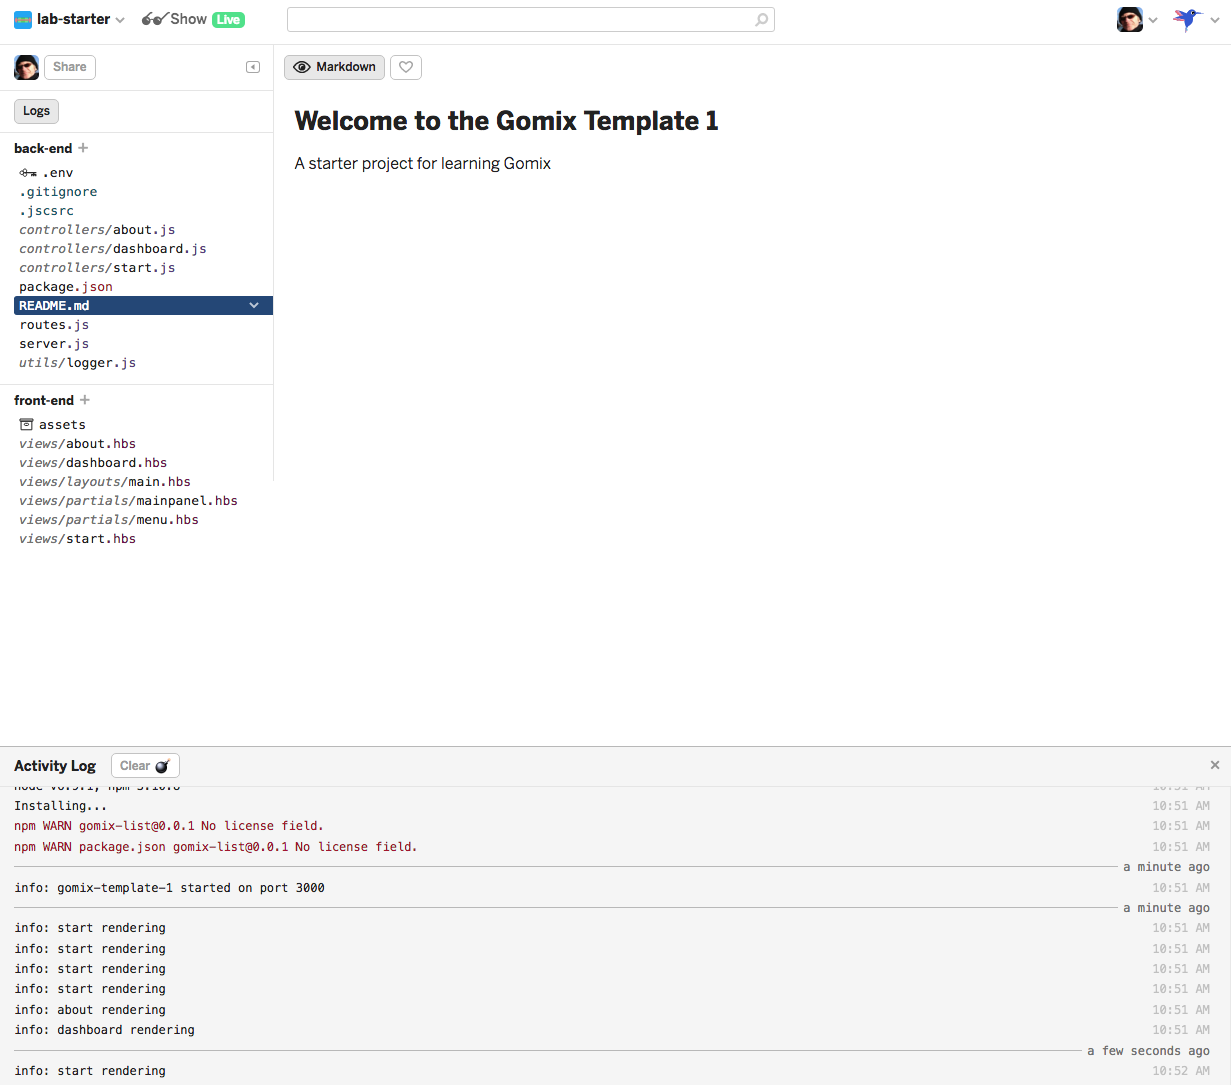
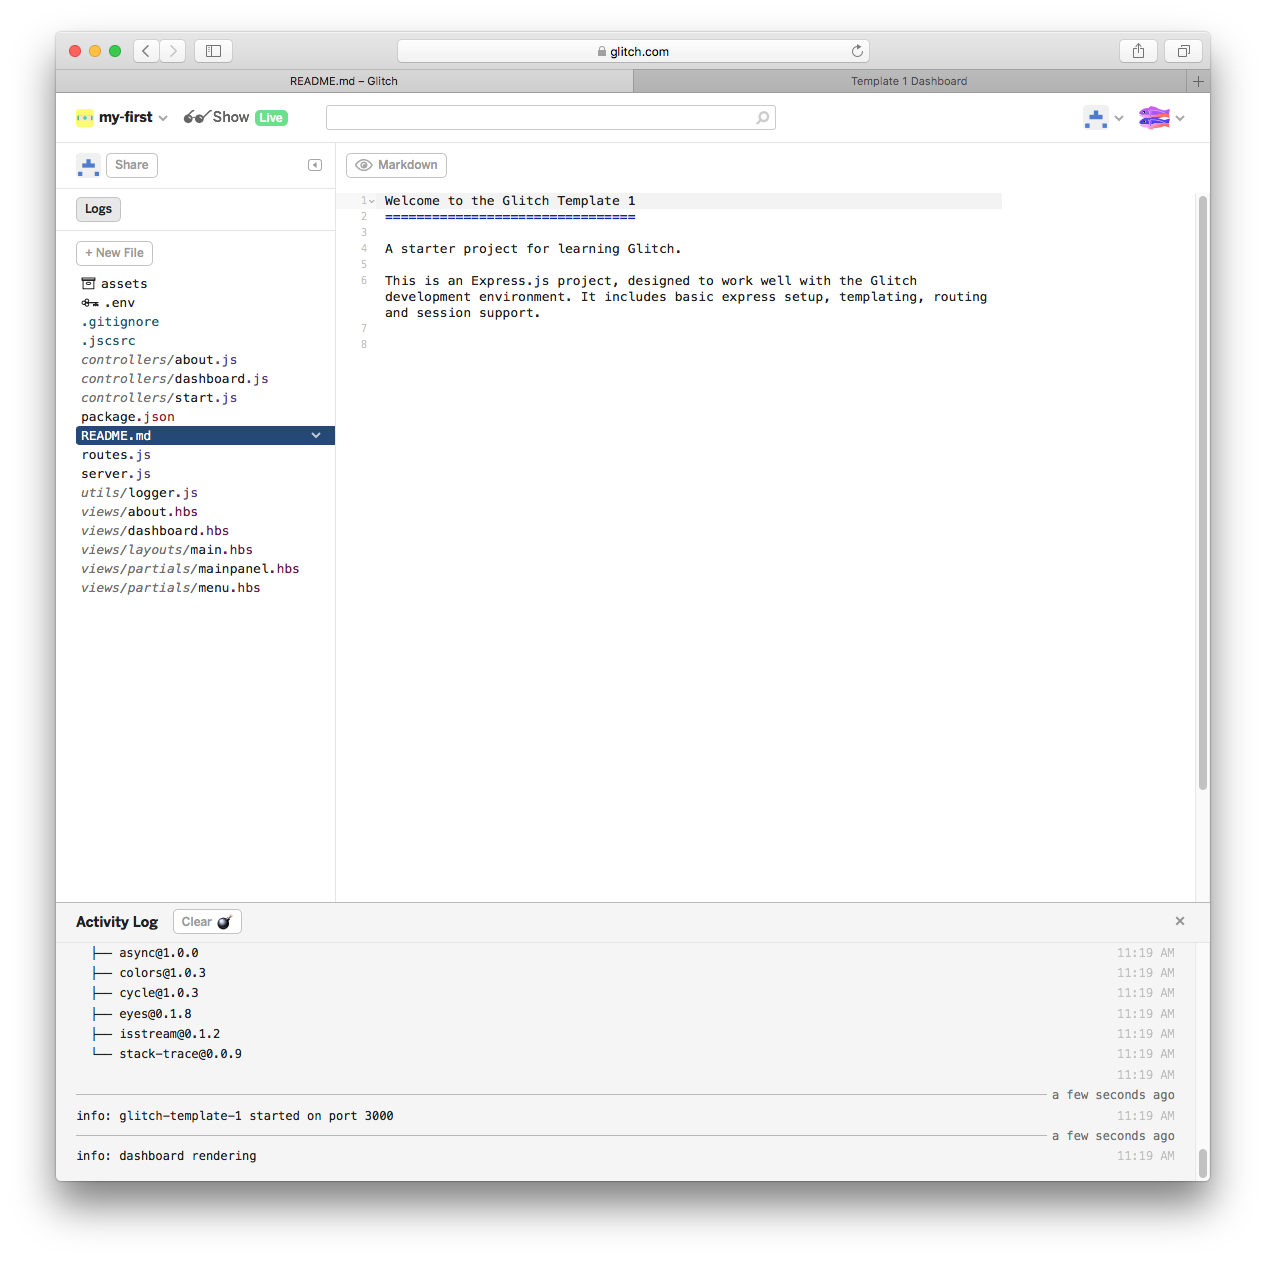
updates to topic04

Changed region(s): [[0.0, 0.0, 0.9878, 1.0]]

diff --git a/topic-04-/book-a-gomix-playlist-1/04.04.md b/topic-04-/book-a-gomix-playlist-1/04.04.md
@@ -1,8 +1,8 @@
 # Dynamic Playlist
 
-The app as we have it now could have been completely built as a static web site. However, the framework and tools we have used in this version enable us to evolve this static site into an interactive app
+The app as we have it now could have been completely built as a static web site. However, the framework and tools we have used in this version enable us to evolve this static site into an interactive web app.
 
-Thie first step is to eliminate some of the static content from the songlist partial. Here is a new version to replace the current version (In listsongs.hbs replace the table with the following):
+The first step is to eliminate some of the static content from the listsongs partial. Here is a new version to replace the current version (in listsongs.hbs replace the table with the following):
 
 ~~~html
 <table class="ui table">
@@ -107,3 +107,24 @@ index(request, response) {
 You should see something like this in the logs:
 
 ![](img/07.png)
+
+## Logs
+
+We can change the format of the logs to better reflect the underlying data structure. Locate this line in `utils/logger.js`:
+
+~~~
+  transports: [new (winston.transports.Console)({ json: false })],
+~~~
+
+We dont need to understand the details - but we can change `false` to `true`:
+
+~~~
+  transports: [new (winston.transports.Console)({ json: true })],
+~~~
+
+This will change how the playlists are displayed in the logs:
+
+![](img/13.png)
+
+
+

diff --git a/topic-04-/book-a-gomix-playlist-1/02.02.md b/topic-04-/book-a-gomix-playlist-1/02.02.md
@@ -10,7 +10,7 @@ First replace the existing corresponding lines of code with each of the followin
 
 ~~~html
 ...
-  <header class="ui header item"> <a href="/"> Playlist 1 </a></header>
+  <header class="ui header item"> Playlist 1 </header>
 ...
 ~~~
 
@@ -18,22 +18,12 @@ First replace the existing corresponding lines of code with each of the followin
 
 ~~~html
 ...
-<p>
-  A Little Playlist Maker - Version 1
-</p>
-...
-~~~
-
-## views/start.hbs
-
-~~~html
-...
-<h1 class="ui header">
-  Welcome to Playlist 1
-</h1>
-<p>
-  A small app to let you compose playlists.
-</p>
+  <h3>
+    Playlist 1
+  </h3>
+  <p>
+    A Little Playlist Maker - Version 1
+  </p>
 ...
 ~~~
 
@@ -49,22 +39,12 @@ Now the controllers:
 ...
 ~~~
 
-## controllers/start.js
-
-~~~javascript
-...
-    const viewData = {
-      title: 'Welcome to Playlist 1',
-    };
-...
-~~~
-
 ## controllers/dashboard.js
 
 ~~~javascript
 ...
     const viewData = {
-      title: 'Playlist Dashboard',
+      title: 'Playlist 1 Dashboard',
     };
 ...
 ~~~

diff --git a/topic-04-/book-a-gomix-playlist-1/01.01.md b/topic-04-/book-a-gomix-playlist-1/01.01.md
@@ -1,12 +1,14 @@
 # Template 1
 
-Create a new project in gomix - this will be a replica of the project created at the start of the last lab. Rename the project to your preference.
+Create a new project in Glitch - this will be a replica of the project created at the start of the last lab. Rename the project to your preference.
 
-Trun on the logs viewer, and then import a project from github:
+Turn on the logs viewer now.
+
+From the Advanced options, Select `import a project from github`. (You may need to grant access to your github account before this option becomes available).
 
 ![](img/01.png)
 
-Enter `edeleastar/gomix-template-1` as shown. This will replace your project completely:
+Enter `wit-ictskills-studio-2017/glitch-template-1` as shown. This will replace your project completely:
 
 ![](img/02.png)
 

diff --git a/topic-04-/book-a-gomix-playlist-1/05.05.md b/topic-04-/book-a-gomix-playlist-1/05.05.md
@@ -2,9 +2,10 @@
 
 We would like to manage the playlists separately from the controller, so that we can eventually introduce multiple playlists.
 
-To prepare for this, create a new javascript module in the backend of your app call it `playlist-store.js` in a new `models` folder. In gomix, you can enter a full path, including a new directory when adding a file:
+To prepare for this, create a new javascript module your app. Call it `playlist-store.js` in a new `models` folder. In Glitch, you can enter a full path, including a new directory when adding a file:
 
-![](img/08.png)
+![](img/14.png)
+![](img/15.png)
 
 ## models/playlist-store.js
 

diff --git a/topic-04-/book-a-gomix-playlist-1/03.03.md b/topic-04-/book-a-gomix-playlist-1/03.03.md
@@ -1,6 +1,6 @@
 # Static Playlist
 
-In this step we will start to display the playlist itself. First, replace `mainpanel.hbs` with a new partial (contained with the existing segment) called `listsongs.hbs`:
+In this step we will start to display the playlist itself. First, create a new partial called `listsongs.hbs`:
 
 ## views/partials/listsongs.hbs
 
@@ -21,6 +21,10 @@ In this step we will start to display the playlist itself. First, replace `mainp
   </tbody>
 </table>
 ~~~
+
+Make sure you include the folder name in the full file name when creating this file.
+
+![](img/11.png)
 
 Change the dashboard view to invoke this partial:
 

diff --git a/topic-04-/book-a-gomix-playlist-1/08.Exercises.md b/topic-04-/book-a-gomix-playlist-1/08.Exercises.md
@@ -1,6 +1,6 @@
 # Exercises & Archives
 
-If you want to download a complete version of the app as it should be at the end of this lab, then create a new Gomix project, and import `edeleastar/gomix-playlist-1`.
+If you want to download a complete version of the app as it should be at the end of this lab, then create a new Gomix project, and import `wit-ictskills-studio-2017/playlist-1`. Be sure to create a new project first, as when you import you will completely replace the current project.
 
 ## Exercise 1: Review the JSON file format
 

diff --git a/course.md b/course.md
@@ -1,3 +1,3 @@
-# Web Application Development 1
+# Web Application Development Using Glitch
 
-A short description of the course. Normally this will not be visible, unless the course is aggregated into a portfolio of modules
+A short course exploring Javascript Web Application development using the Glitch service. The course will introduce the fundamentals of javascript use this knowledge learn the structure of Web Applications in Node and Express.

diff --git a/topic-04-/book-a-gomix-playlist-1/06.06.md b/topic-04-/book-a-gomix-playlist-1/06.06.md
@@ -55,7 +55,7 @@ Here we are defining 2 playlists :
 - sonatas
 - concertos
 
-... and then an array called `playlistCollection`, which lists these two:
+... and then an array called `playlistCollection`, which contains these two:
 
 ~~~js
 const playlistCollection = [sonatas, concertos];
